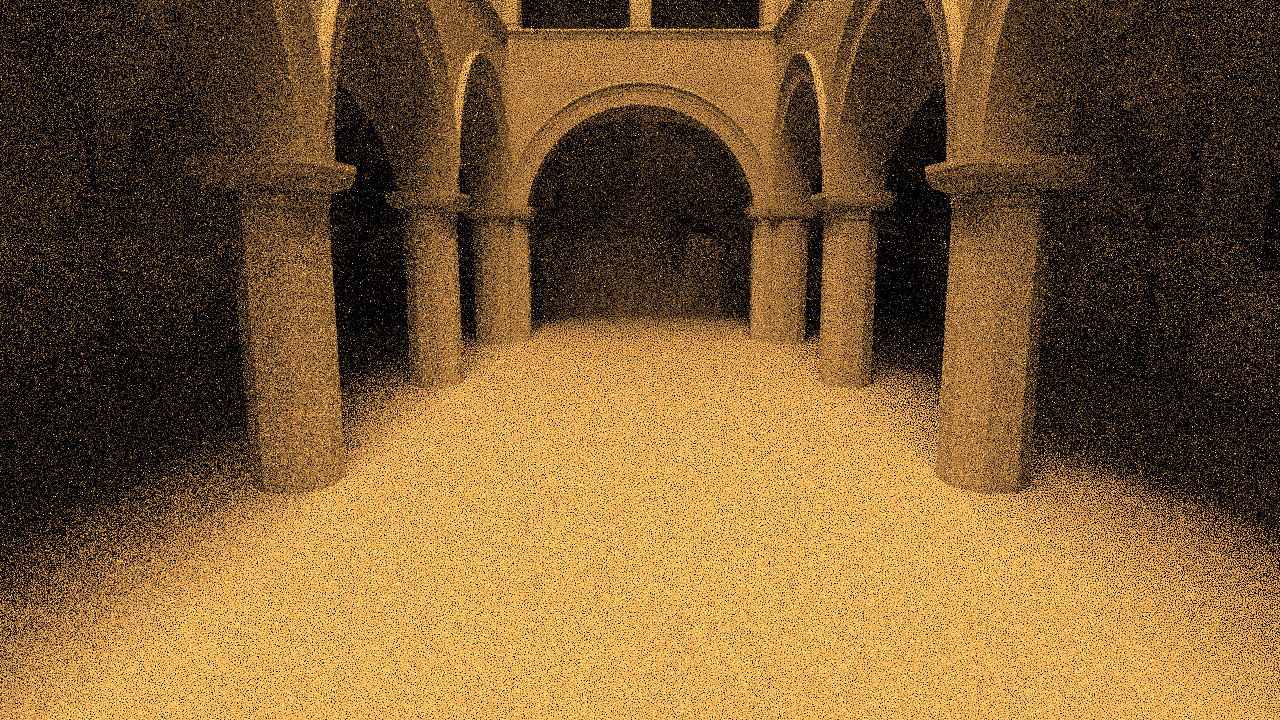
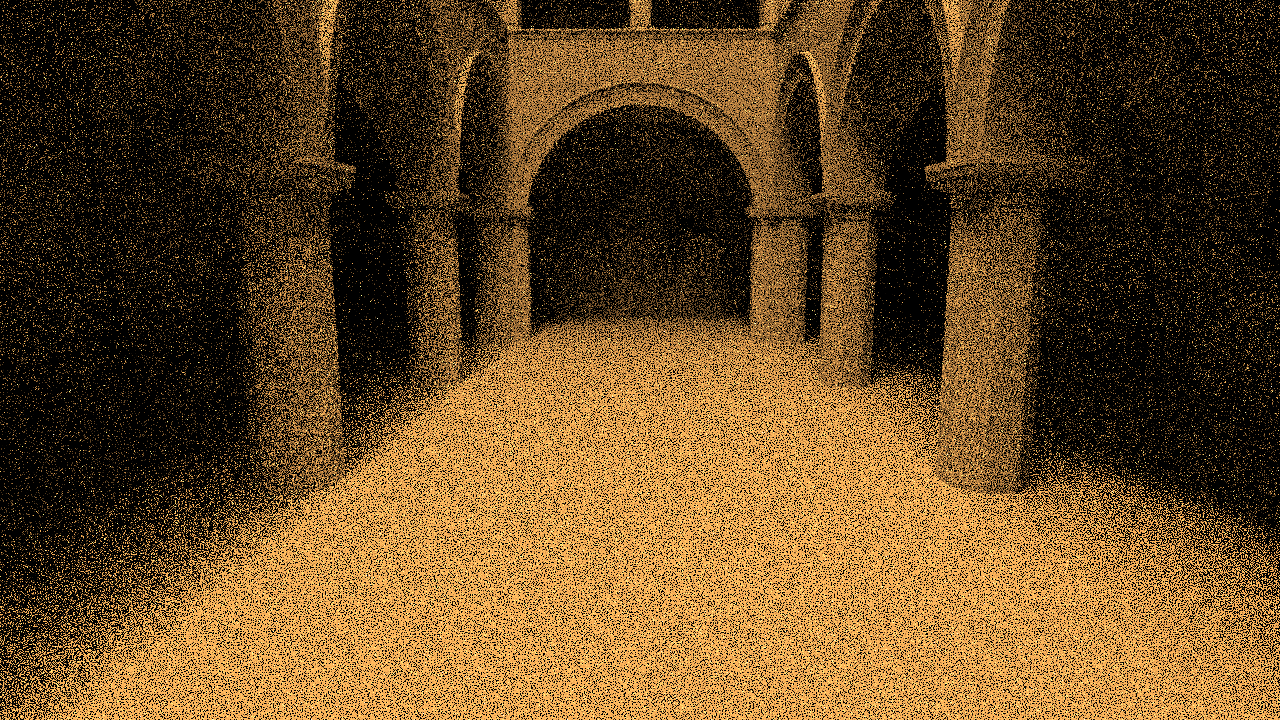
delegate, shadergraph opt

diff --git a/shading/graph/GraphInputs.cpp b/shading/graph/GraphInputs.cpp
@@ -6,11 +6,11 @@ namespace ShaderGraph {
 		---------- Scalar Input ----------
 	*/
 
-	ScalarInput::ScalarInput(const Real _value) : Node(0, 1, "Scalar") {
+	ScalarInput::ScalarInput(const Real _value) : Node(0, 1, "Scalar Input") {
 		value = _value;
-		outputSockets[0] = MAKE_SOCKET(SocketType::TYPE_SCALAR, this->GetScalar, "Scalar");
+		outputSockets[0] = MAKE_SOCKET(SocketType::TYPE_SCALAR, &ScalarInput::GetScalar, "Scalar");
 	}
-
+	
 	void ScalarInput::GetScalar(const SurfaceScatterEvent *_event, void *_out) const {
 		*reinterpret_cast<Real *>(_out) = value;
 	}
@@ -19,14 +19,14 @@ namespace ShaderGraph {
 		---------- RGB Input ----------
 	*/
 
-	RGBInput::RGBInput(const Colour &_rgb) : Node(0, 1, "RGB") {
+	RGBInput::RGBInput(const Colour &_rgb) : Node(0, 1, "RGB Input") {
 		rgb = _rgb;
-		outputSockets[0] = MAKE_SOCKET(SocketType::TYPE_COLOUR, this->GetColour, "Colour");
+		outputSockets[0] = MAKE_SOCKET(SocketType::TYPE_COLOUR, &RGBInput::GetColour, "Colour");
 	}
 
-	RGBInput::RGBInput(const Real *_rgb) : Node(0,1) {
+	RGBInput::RGBInput(const Real *_rgb) : Node(0, 1, "RGB Input") {
 		rgb = _rgb;
-		outputSockets[0] = MAKE_SOCKET(SocketType::TYPE_COLOUR, this->GetColour, "Colour");
+		outputSockets[0] = MAKE_SOCKET(SocketType::TYPE_COLOUR, &RGBInput::GetColour, "Colour");
 	}
 
 	void RGBInput::GetColour(const SurfaceScatterEvent *_event, void *_out) const {
@@ -43,12 +43,12 @@ namespace ShaderGraph {
 			const Real l1 = maths::Lerp(sampledLambdaStart, sampledLambdaEnd, (Real)(i + 1) * invNSpectralSamples);
 			spec[i] = AverageSpectrumSamples(_lambda, _vals, _n, l0, l1);
 		}
-		outputSockets[0] = MAKE_SOCKET(SocketType::TYPE_SPECTRUM, this->GetSpectrum, "Spectrum");
+		outputSockets[0] = MAKE_SOCKET(SocketType::TYPE_SPECTRUM, &SpectralInput::GetSpectrum, "Spectrum");
 	}
 
 	SpectralInput::SpectralInput(const Spectrum &_spec) : Node(0, 1) {
 		spec = _spec;
-		outputSockets[0] = MAKE_SOCKET(SocketType::TYPE_SPECTRUM, this->GetSpectrum, "Spectrum");
+		outputSockets[0] = MAKE_SOCKET(SocketType::TYPE_SPECTRUM, &SpectralInput::GetSpectrum, "Spectrum");
 	}
 
 	void SpectralInput::GetSpectrum(const SurfaceScatterEvent *_event, void *_out) const {
@@ -62,7 +62,7 @@ namespace ShaderGraph {
 	BlackbodyInput::BlackbodyInput(Socket *_temperatureSocket, const unsigned _samples) : Node(1, 1, "Blackbody Spectrum") {
 		samples = _samples;
 		inputSockets[0] = MAKE_INPUT_SOCKET(SocketType::TYPE_SCALAR, _temperatureSocket);
-		outputSockets[0] = MAKE_SOCKET(SocketType::TYPE_SPECTRUM, this->GetSpectrum, "Spectrum");
+		outputSockets[0] = MAKE_SOCKET(SocketType::TYPE_SPECTRUM, &BlackbodyInput::GetSpectrum, "Spectrum");
 	}
 
 	void BlackbodyInput::GetSpectrum(const SurfaceScatterEvent *_event, void *_out) const {
@@ -106,8 +106,8 @@ namespace ShaderGraph {
 
 	ImageTextureInput::ImageTextureInput(Texture *_tex) : Node(0, 2, "Image Texture") {
 		tex = _tex;
-		outputSockets[0] = MAKE_SOCKET(SocketType::TYPE_COLOUR, this->GetColour, "Colour");
-		outputSockets[1] = MAKE_SOCKET(SocketType::TYPE_SCALAR, this->GetScalar, "Scalar");
+		outputSockets[0] = MAKE_SOCKET(SocketType::TYPE_COLOUR, &ImageTextureInput::GetColour, "Colour");
+		outputSockets[1] = MAKE_SOCKET(SocketType::TYPE_SCALAR, &ImageTextureInput::GetScalar, "Scalar");
 	}
 
 	void ImageTextureInput::GetColour(const SurfaceScatterEvent *_event, void *_out) const {
@@ -126,7 +126,7 @@ namespace ShaderGraph {
 
 	SpectralTextureInput::SpectralTextureInput(texture_t<Spectrum> *_tex) : Node(0, 1, "Spectral Texture") {
 		tex = _tex;
-		outputSockets[0] = MAKE_SOCKET(SocketType::TYPE_SPECTRUM, this->GetSpectrum, "Spectrum");
+		outputSockets[0] = MAKE_SOCKET(SocketType::TYPE_SPECTRUM, &SpectralTextureInput::GetSpectrum, "Spectrum");
 	}
 
 	void SpectralTextureInput::GetSpectrum(const SurfaceScatterEvent *_event, void *_out) const {

diff --git a/shading/graph/GraphBxDF.cpp b/shading/graph/GraphBxDF.cpp
@@ -7,14 +7,14 @@ namespace ShaderGraph {
 		inputSockets[0] = MAKE_INPUT_SOCKET(SocketType::TYPE_BXDF, _bxdfA);
 		inputSockets[1] = MAKE_INPUT_SOCKET(SocketType::TYPE_BXDF, _bxdfB);
 		inputSockets[2] = MAKE_INPUT_SOCKET(SocketType::TYPE_SCALAR, _ratio);
-		outputSockets[0] = MAKE_SOCKET(SocketType::TYPE_BXDF, this->GetBxDF, "BxDF");
+		outputSockets[0] = MAKE_BXDF_SOCKET(SocketType::TYPE_BXDF, &MixBxDFNode::GetBxDF, "BxDF");
 	}
 
 
 
 	LambertianBRDFNode::LambertianBRDFNode(Socket *_albedo) : BxDFNode(1, 1, "Lambertian BRDF"), LambertianBRDF(&inputSockets[0].socket) {
 		inputSockets[0] = MAKE_INPUT_SOCKET(SocketType::TYPE_COLOUR, _albedo);
-		outputSockets[0] = MAKE_SOCKET(SocketType::TYPE_BXDF, this->GetBxDF, "BRDF");
+		outputSockets[0] = MAKE_BXDF_SOCKET(SocketType::TYPE_BXDF, &LambertianBRDFNode::GetBxDF, "BRDF");
 	}
 
 
@@ -23,7 +23,7 @@ namespace ShaderGraph {
 		: BxDFNode(2, 1, "Oren-Nayar BRDF"), OrenNayarBRDF(&inputSockets[0].socket, &inputSockets[1].socket) {
 		inputSockets[0] = MAKE_INPUT_SOCKET(SocketType::TYPE_COLOUR, _albedo);
 		inputSockets[1] = MAKE_INPUT_SOCKET(SocketType::TYPE_SCALAR, _roughness);
-		outputSockets[0] = MAKE_SOCKET(SocketType::TYPE_BXDF, this->GetBxDF, "BRDF");
+		outputSockets[0] = MAKE_BXDF_SOCKET(SocketType::TYPE_BXDF, &OrenNayarBxDFNode::GetBxDF, "BRDF");
 	}
 
 
@@ -32,14 +32,14 @@ namespace ShaderGraph {
 		: BxDFNode(2, 1, "Microfcet BRDF"), MicrofacetBRDF(&inputSockets[0].socket, &inputSockets[1].socket, _distribution, _fresnel) {
 		inputSockets[0] = MAKE_INPUT_SOCKET(SocketType::TYPE_COLOUR, _albedo);
 		inputSockets[1] = MAKE_INPUT_SOCKET(SocketType::TYPE_SCALAR, _roughness);
-		outputSockets[0] = MAKE_SOCKET(SocketType::TYPE_BXDF, this->GetBxDF, "BRDF");
+		outputSockets[0] = MAKE_BXDF_SOCKET(SocketType::TYPE_BXDF, &MicrofacetBRDFNode::GetBxDF, "BRDF");
 	}
 
 
 
 	GhostBTDFNode::GhostBTDFNode(Socket *_alpha) : BxDFNode(1, 1, "Ghost BTDF"), GhostBTDF(&inputSockets[0].socket) {
 		inputSockets[0] = MAKE_INPUT_SOCKET(SocketType::TYPE_SCALAR, _alpha);
-		outputSockets[0] = MAKE_SOCKET(SocketType::TYPE_BXDF, this->GetBxDF, "BTDF");
+		outputSockets[0] = MAKE_BXDF_SOCKET(SocketType::TYPE_BXDF, &GhostBTDFNode::GetBxDF, "BTDF");
 	}
 
 
@@ -48,7 +48,7 @@ namespace ShaderGraph {
 		: BxDFNode(2, 1, "Fresnel BSDF"), FresnelBSDF(&inputSockets[0].socket, &inputSockets[1].socket) {
 		inputSockets[0] = MAKE_INPUT_SOCKET(SocketType::TYPE_COLOUR, _albedo);
 		inputSockets[1] = MAKE_INPUT_SOCKET(SocketType::TYPE_SCALAR, _ior);
-		outputSockets[0] = MAKE_SOCKET(SocketType::TYPE_BXDF, this->GetBxDF, "BSDF");
+		outputSockets[0] = MAKE_BXDF_SOCKET(SocketType::TYPE_BXDF, &FresnelBSDFNode::GetBxDF, "BSDF");
 	}
 
 
@@ -56,7 +56,7 @@ namespace ShaderGraph {
 	SpecularBRDFNode::SpecularBRDFNode(Socket *_albedo, Fresnel *_fresnel)
 		: BxDFNode(1, 1, "Specular BRDF"), SpecularBRDF(&inputSockets[0].socket, _fresnel) {
 		inputSockets[0] = MAKE_INPUT_SOCKET(SocketType::TYPE_COLOUR, _albedo);
-		outputSockets[0] = MAKE_SOCKET(SocketType::TYPE_BXDF, this->GetBxDF, "BRDF");
+		outputSockets[0] = MAKE_BXDF_SOCKET(SocketType::TYPE_BXDF, &SpecularBRDFNode::GetBxDF, "BRDF");
 	}
 
 
@@ -64,7 +64,7 @@ namespace ShaderGraph {
 	SpecularBTDFNode::SpecularBTDFNode(Socket *_albedo, const Real _etaT)
 		: BxDFNode(1, 1, "Specular BTDF"), SpecularBTDF(&inputSockets[0].socket, _etaT) {
 		inputSockets[0] = MAKE_INPUT_SOCKET(SocketType::TYPE_COLOUR, _albedo);
-		outputSockets[0] = MAKE_SOCKET(SocketType::TYPE_BXDF, this->GetBxDF, "BTDF");
+		outputSockets[0] = MAKE_BXDF_SOCKET(SocketType::TYPE_BXDF, &SpecularBTDFNode::GetBxDF, "BTDF");
 	}
 
 }

diff --git a/shading/graph/ShaderGraph.h b/shading/graph/ShaderGraph.h
@@ -1,20 +1,22 @@
 #pragma once
 #include <string>
 #include <memory>
-#include <functional>
+#include <utility/Delegate.h>
 #include <image/Texture.h>
 #include <core/Spectrum.h>
 #include "../SurfaceScatterEvent.h"
 
 namespace ShaderGraph {
 
-	#define MAKE_SOCKET_CALLBACK(_func) [this](const SurfaceScatterEvent *_event, void *_out) { _func(_event, _out); }
+	using NodeDelegate = ConstDelegate<void, const SurfaceScatterEvent *, void *>;
 
-	#define MAKE_SOCKET(_type, _callback, _tag) {	(_type), MAKE_SOCKET_CALLBACK(_callback), (_tag)	};
+	#define MAKE_SOCKET_CALLBACK(_func) NodeDelegate::FromFunction<std::remove_reference<decltype(*this)>::type, (_func)>(this)
+
+	#define MAKE_SOCKET(_type, _callback, _tag) {	(_type), MAKE_SOCKET_CALLBACK(_callback), (_tag)	}
 
 	#define MAKE_INPUT_SOCKET(_type, _socketPtr) {	(_type), (_socketPtr)	};
 
-	enum class SocketType {
+	enum class SocketType : uint8_t {
 		TYPE_SCALAR,
 		TYPE_COLOUR,
 		TYPE_VEC2,
@@ -25,11 +27,11 @@ namespace ShaderGraph {
 	
 	struct Socket {
 		SocketType socketType;
-		std::function<void(const SurfaceScatterEvent *, void *)> callback;
+		NodeDelegate callback;
 		std::string tag;
 
 		inline Real GetAsScalar(const SurfaceScatterEvent *_event) const {
-			if(callback.operator bool() && socketType == SocketType::TYPE_SCALAR) {
+			if(callback && socketType == SocketType::TYPE_SCALAR) {
 				Real r;
 				callback(_event, &r);
 				return r;
@@ -109,6 +111,18 @@ namespace ShaderGraph {
 				nodeTag(_nodeTag),
 				numIn(_numIn), numOut(_numOut),
 				inputSockets(new SocketRef[_numIn]), outputSockets(new Socket[_numOut]) {}
+
 	};
 
+	static bool Connect(SocketRef &_socketRef, const Socket &_socket) {
+		if (_socketRef.socketType == _socket.socketType) {
+			_socketRef.socket = (Socket*)&_socket;
+			return true;
+		}
+		return false;
+	}
+
+	static void Disconnect(SocketRef &_socketRef) {
+		_socketRef.socket = nullptr;
+	}
 }

diff --git a/utility/Delegate.h b/utility/Delegate.h
@@ -1,0 +1,33 @@
+/*---- Sam Warren 2019 ----
+Compile-time delegate to a const function.
+*/
+template<class ReturnType, typename... params>
+class ConstDelegate {
+	typedef ReturnType(*Type)(void *callee, params...);
+
+	public:
+		ConstDelegate(void *_callee = nullptr, Type _function = nullptr) : callee(_callee), callback(_function) {}
+
+		template <class T, ReturnType(T:: *TMethod)(params...) const>
+		inline static ConstDelegate FromFunction(T *_callee) {
+			return ConstDelegate(_callee, &MethodCaller<T, TMethod>);
+		}
+
+		inline void operator()(params... _params) const {
+			return (*callback)(callee, _params...);
+		}
+
+		inline operator bool() const {
+			return (bool)callee;
+		}
+
+	private:
+		void *callee;
+		Type callback;
+
+		template <class T, ReturnType(T:: *TMethod)(params...) const>
+		inline static ReturnType MethodCaller(void *_callee, params... _params) {
+			T *p = static_cast<T *>(_callee);
+			return (p->*TMethod)(_params...);
+		}
+};

diff --git a/shading/graph/GraphBXDF.h b/shading/graph/GraphBXDF.h
@@ -7,6 +7,8 @@
 
 namespace ShaderGraph {
 
+	#define MAKE_BXDF_SOCKET(_type, _callback, _tag) {	(_type), NodeDelegate::FromFunction<BxDFNode, (_callback)>(this), (_tag)	}
+
 	class BxDFNode : public Node {
 		public:
 			BxDFNode(const unsigned _numIn, const unsigned _numOut, const std::string &_nodeTag) : Node(_numIn, _numOut, _nodeTag) {}

diff --git a/core/Ray.h b/core/Ray.h
@@ -1,7 +1,6 @@
 /*----	By Sam Warren 2019	----
-  ----	Basic ray class and ray-hit struct.	----
+	Basic ray class and ray-hit struct.
 
-	Since Embree only supports 32-bit float precision, vec3f used as Vec3 in maths.h.
 	Can be converted to an Embree RTCRay type when querying ray against a scene.
 */
 

diff --git a/Lambda/main.cpp b/Lambda/main.cpp
@@ -139,7 +139,7 @@ int main() {
 	renderDirective.film = &film;
 	renderDirective.sampler = &sampler;
 	renderDirective.sampleShifter = &sampleShifter;
-	renderDirective.spp = 4;
+	renderDirective.spp = 2;
 	renderDirective.tileSizeX = 32;
 	renderDirective.tileSizeY = 32;
 

diff --git a/shading/graph/ShaderGraphArena.h b/shading/graph/ShaderGraphArena.h
@@ -1,0 +1,12 @@
+#pragma once
+#include <utility/Memory.h>
+#include "ShaderGraph.h"
+
+namespace ShaderGraph {
+
+class ShaderGraphArena {
+	public:
+		MemoryArena arena;
+};
+
+}
